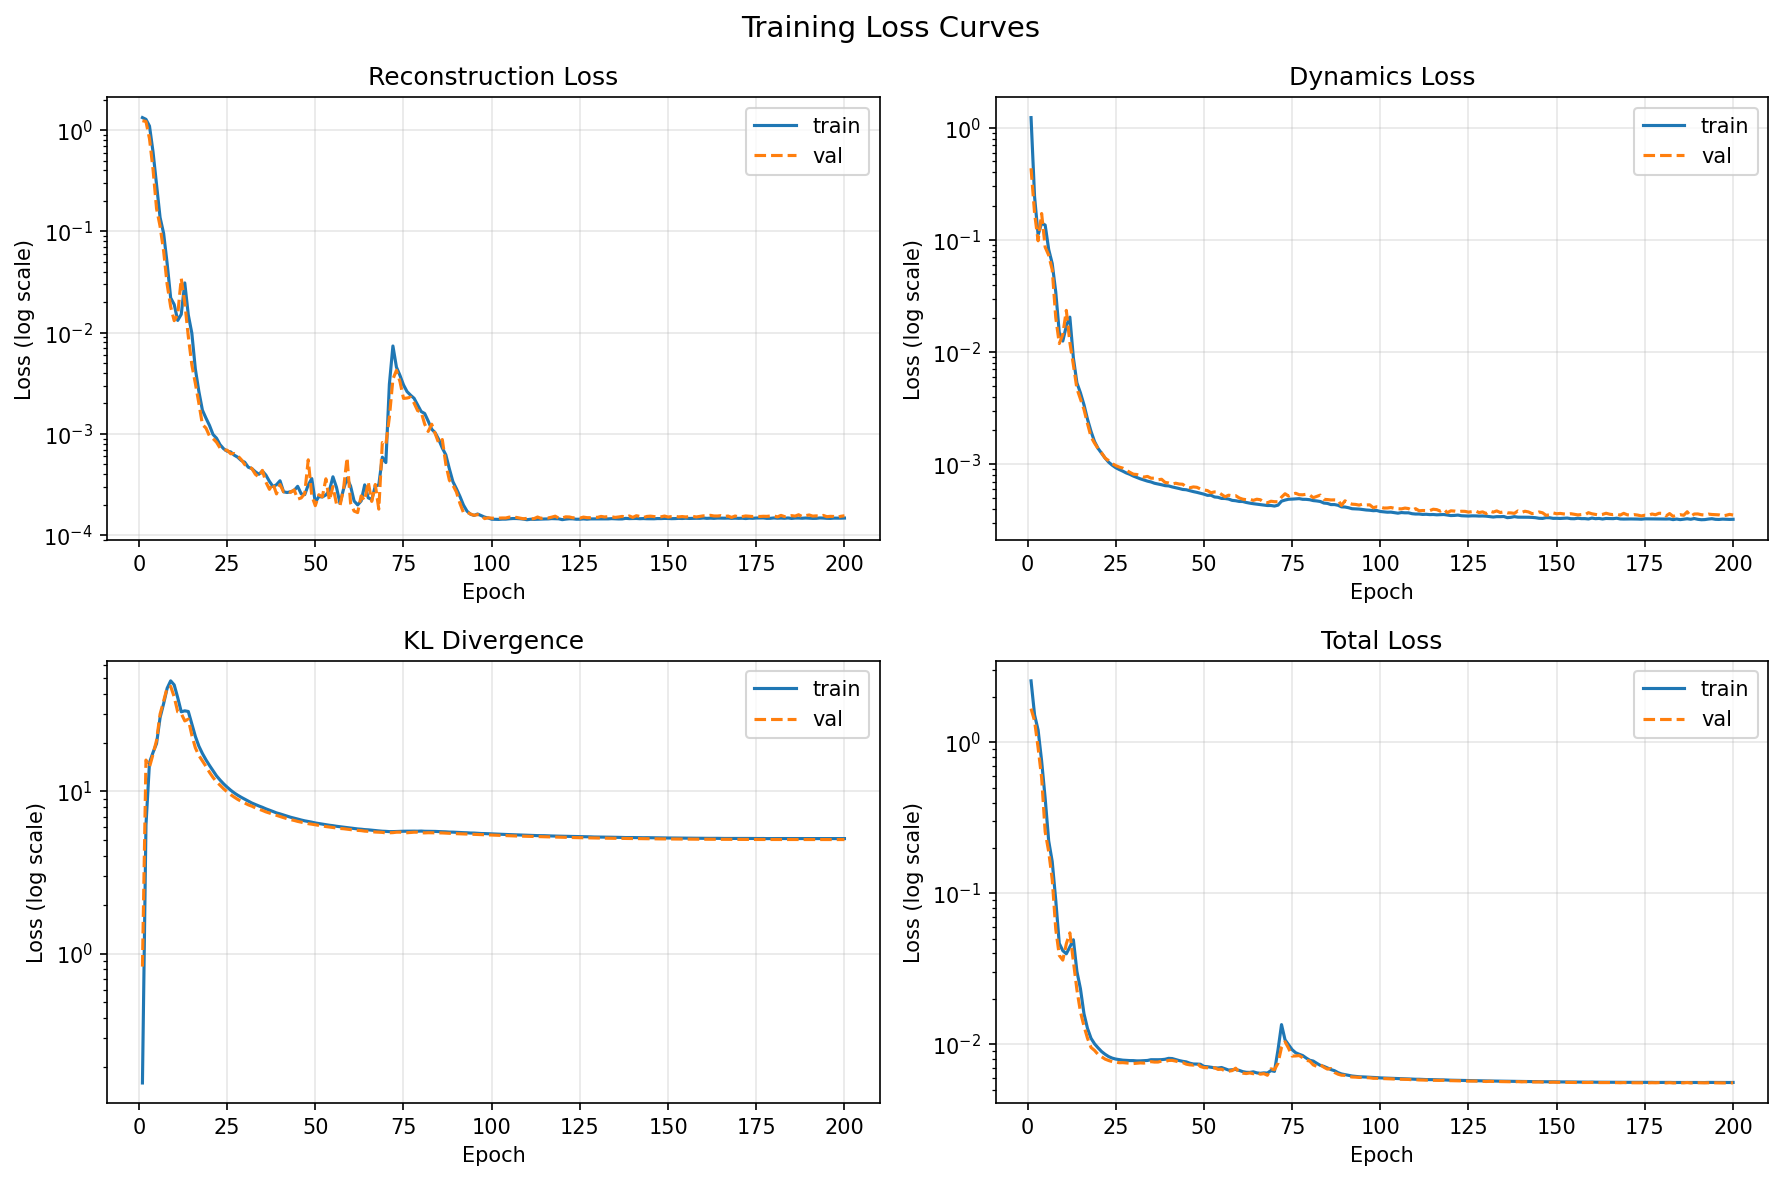
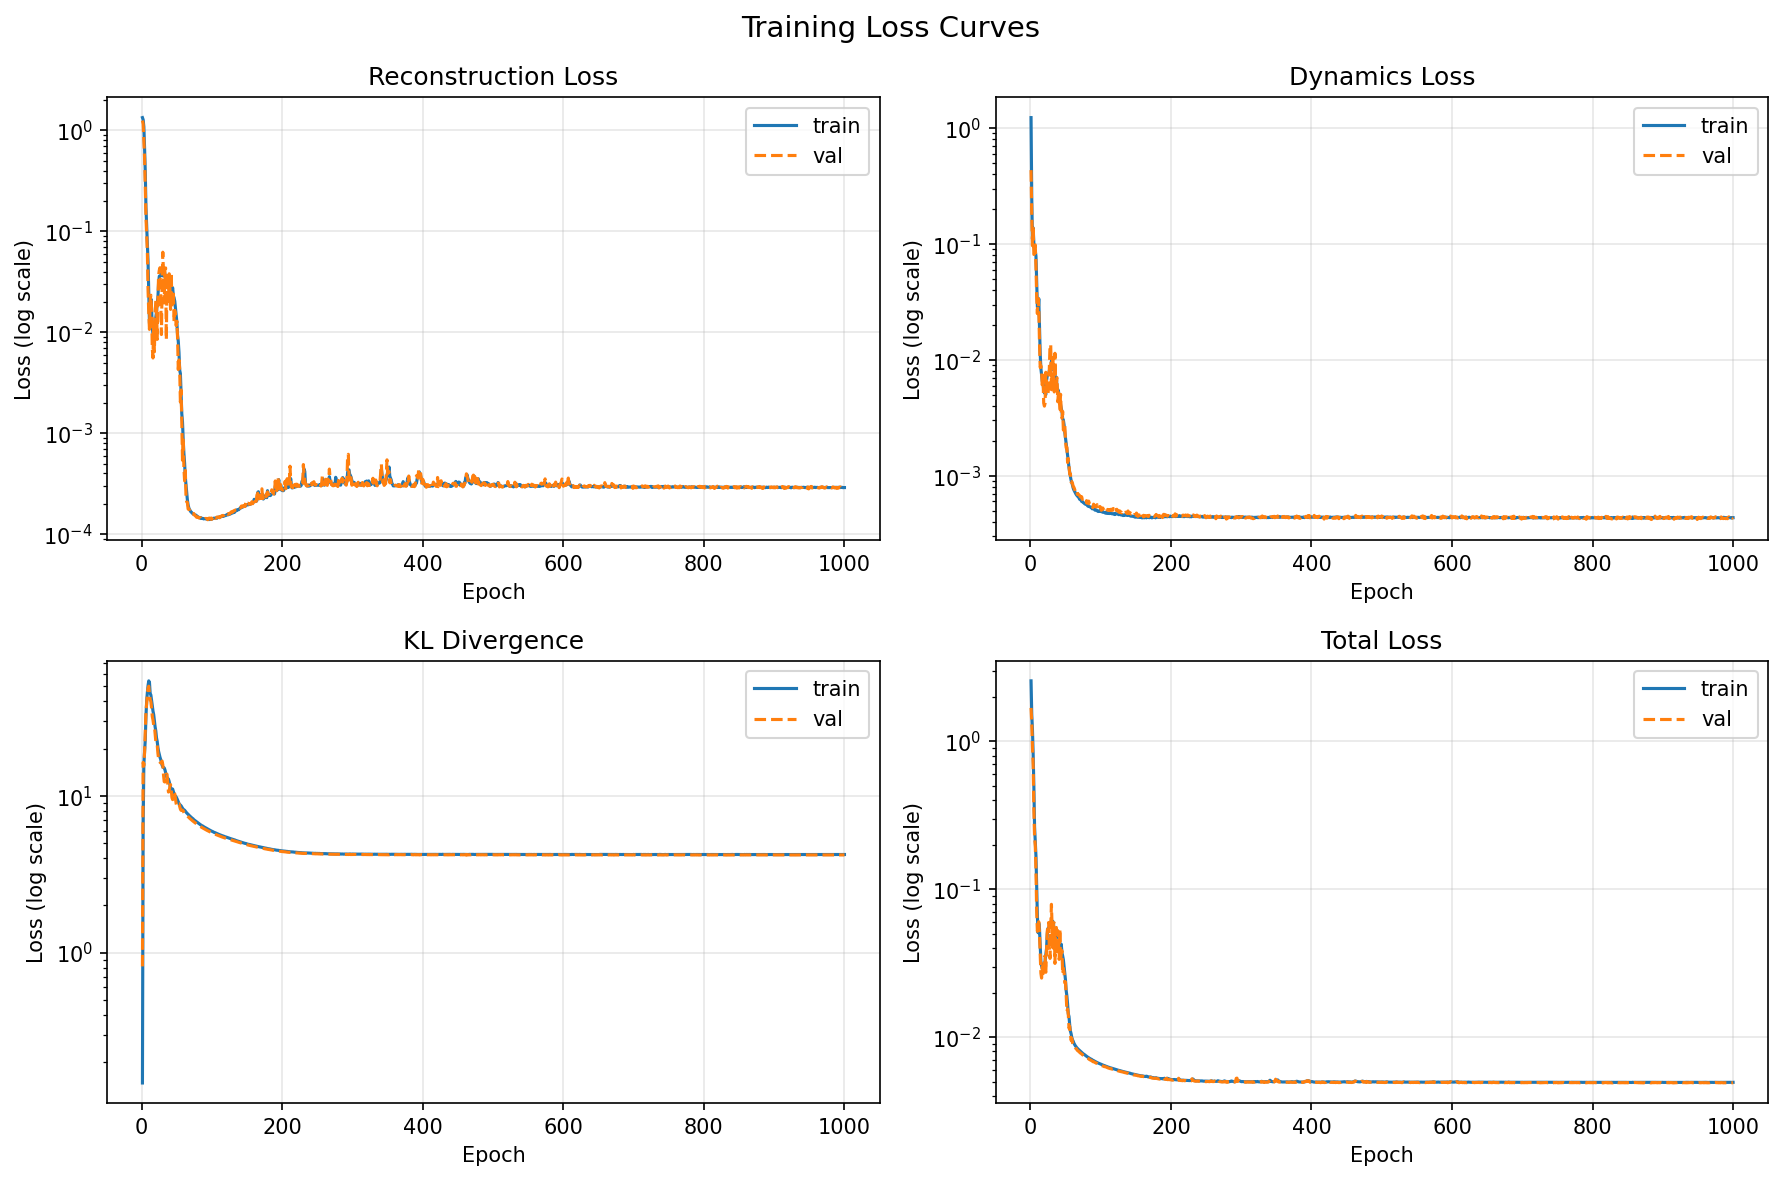
updated some stuff to new arch

diff --git a/src/wrld/models.py b/src/wrld/models.py
@@ -49,9 +49,15 @@ class DynamicsModel(nn.Module):
             # nn.ReLU(),
             nn.Linear(64, LATENT_DIM),
         )
+        self.A = nn.Linear(LATENT_DIM, LATENT_DIM)
+        self.B = nn.Linear(ACTION_DIM, LATENT_DIM)
 
     def forward(self, z: torch.Tensor, action: torch.Tensor) -> torch.Tensor:
         inp = torch.cat([z, action], dim=-1)
+        # A matrix
+        out = self.A(z)
+        # B matrix
+        out += self.B(action)
         return z + self.net(inp)  # residual: predict delta
 
 

diff --git a/scripts/train.py b/scripts/train.py
@@ -105,7 +105,7 @@ def main():
         train_loader=train_loader,
         val_loader=val_loader,
         val_data=val_data,
-        num_epochs=200,
+        num_epochs=1000,
         lr=1e-3,
         kl_weight=0.001,
         kl_warmup_epochs=40,

diff --git a/readme.md b/readme.md
@@ -26,8 +26,12 @@ so heres a quick overview of the system architecture, i know its a little bit of
 ![](./figs/architecture.png)
 
 it boils down to an encoder -> latent dynamics model -> deccoder, but if theoretically your rollouts can live in the latent space as you add your action vector directly to the latent vector, thus removing the lossy encoder + decoder step.
+
 ok slight changes here, this no longer uses 2x 128 layers in the dynamics model, it uses 1 64 layer. and the latent representation is now 2, not 30. cuts max rollout MSE from .0752 -> 0.0095 
 
+update: increased epochs from 200 -> 1000, and modified dynamics model to be an SSM4( i think ) style model. 
+
+at 1000 epochs, performance is crazy, matches reconstruction almost perfectly, and a mean rollout loss of 0.0002, and max of 0.0014. which is almost imperceptable in the worst cases.
 
 ### loss
 ![](./figs/loss_curves.png)
@@ -43,11 +47,13 @@ not much to see here, the reconstruction was nailing it
 
 ### worst case rollouts
 ![](./figs/rollout.png)
-performance seems to degrade as you hit timestep 30 in worst cases, and model seems to do poorly for transient loading / huge changes in acceleration, as seen with seq 46 and 153. might just be issues of out of domain data, but we shall see
+performance is absolute peak now
 
 ### latent PCA
 ![](./figs/latent_pca.png)
 indicates how well the latent representation holds for the space, if its sporadic / not a smooth curve from red to blue, then something fucked up
+
+no longer smooth, but still good. might be overfitting slightly?
 
 
 if you have any reccomendations or notice any big errors, please feel free to open a PR :)
